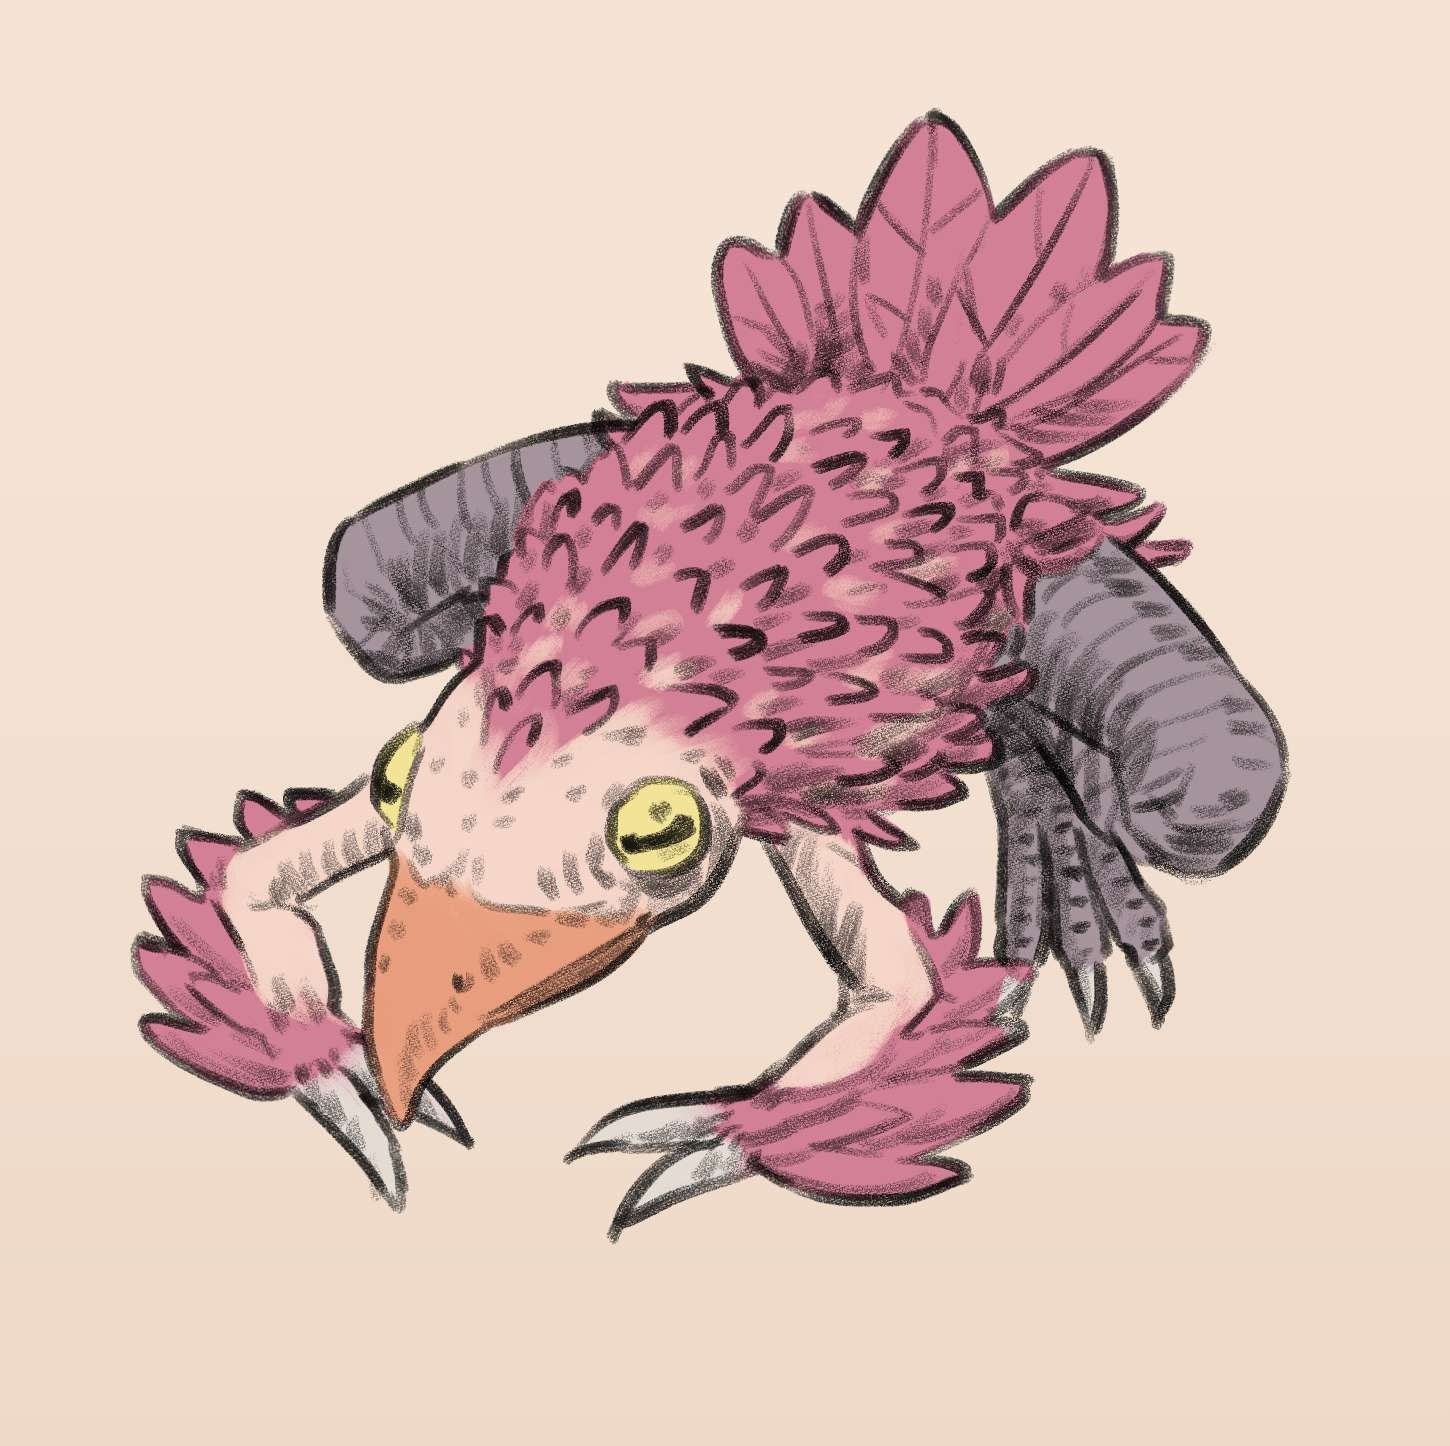
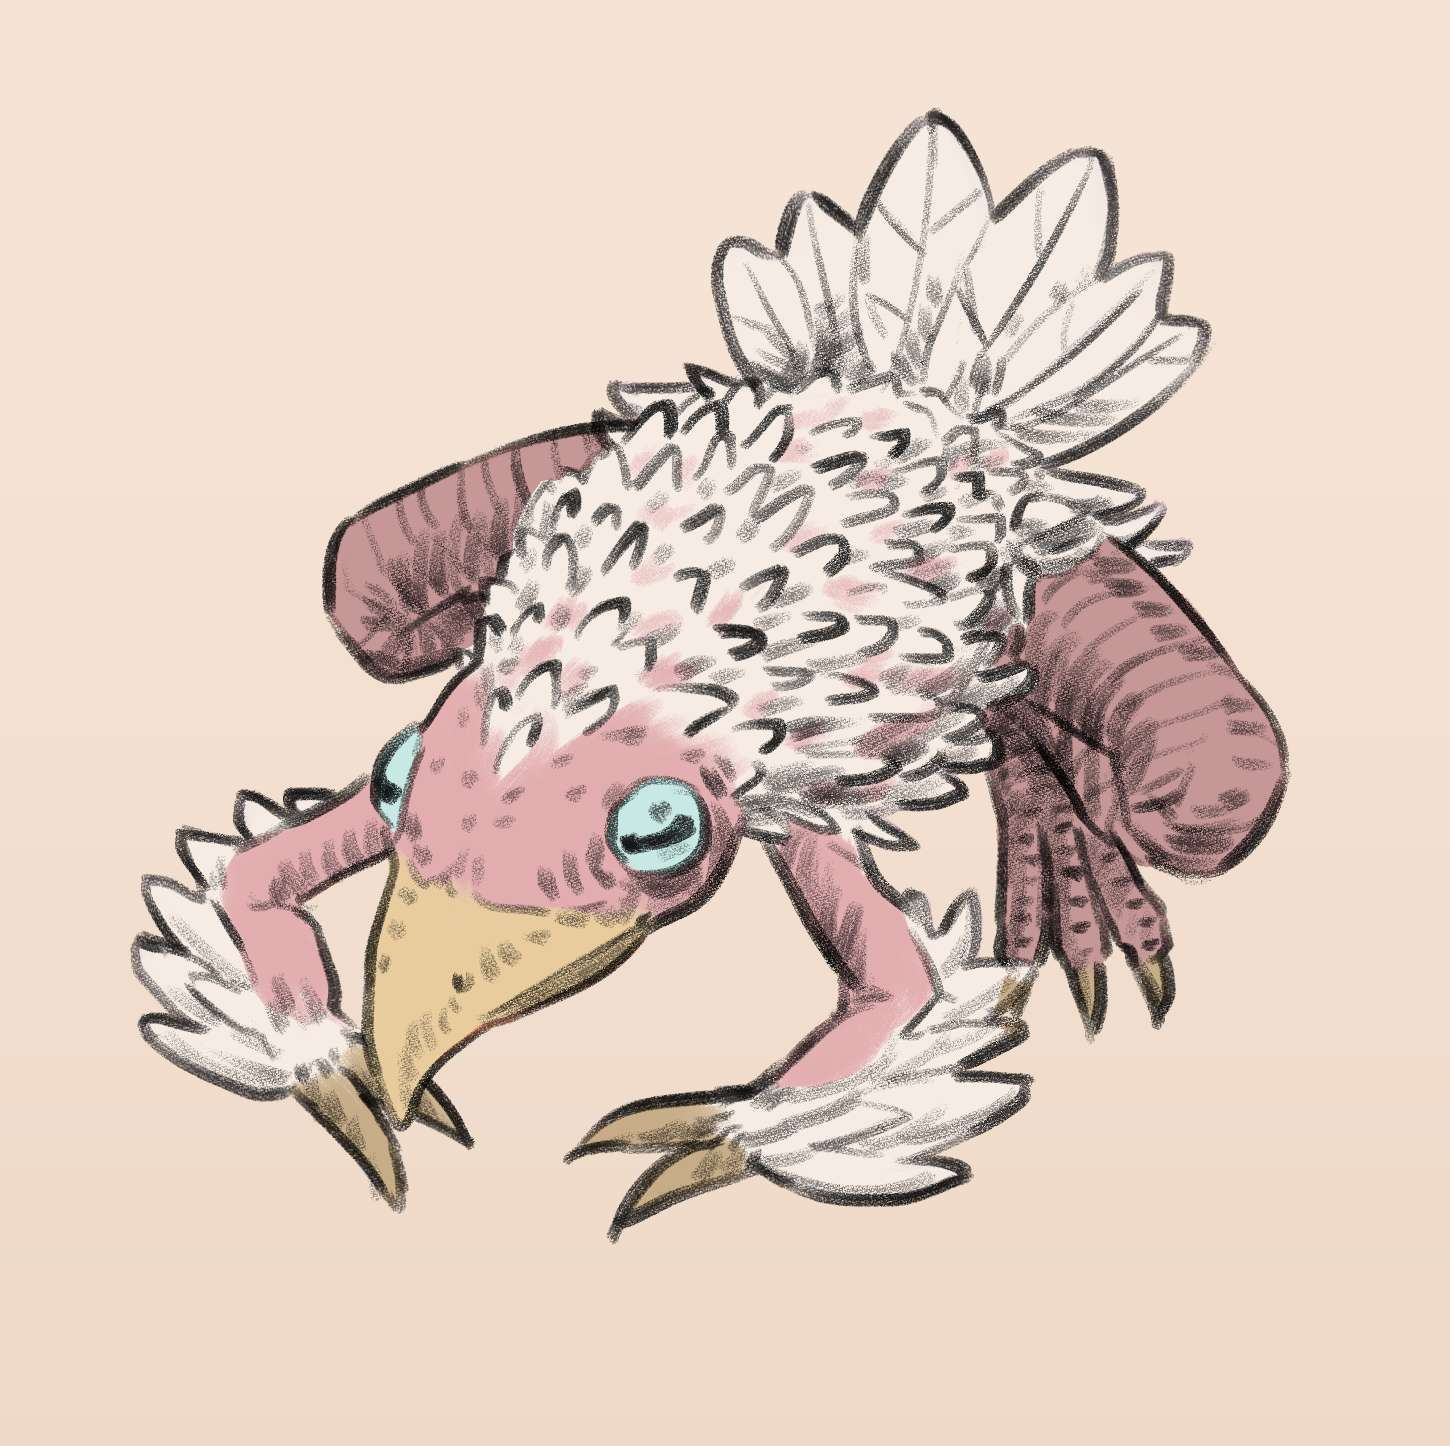
more

Changed region(s): [[0.0931, 0.0622, 0.9, 0.8402]]

diff --git a/projects/animal_crossovers/project_page.html b/projects/animal_crossovers/project_page.html
@@ -70,7 +70,7 @@
                     alt="Image" onclick="openPopup(this)" loading="lazy">
                     <img class="popupImage clickable img-square hoverable" src="animals pig.png"
                     alt="Image" onclick="openPopup(this)" loading="lazy">
-                    <img class="popupImage clickable img-square hoverable" src="animals frog4.png"
+                    <img class="popupImage clickable img-square hoverable" src="animals frog.png"
                     alt="Image" onclick="openPopup(this)" loading="lazy">
                     <img class="popupImage clickable img-square hoverable" src="animals owl.png"
                     alt="Image" onclick="openPopup(this)" loading="lazy">
